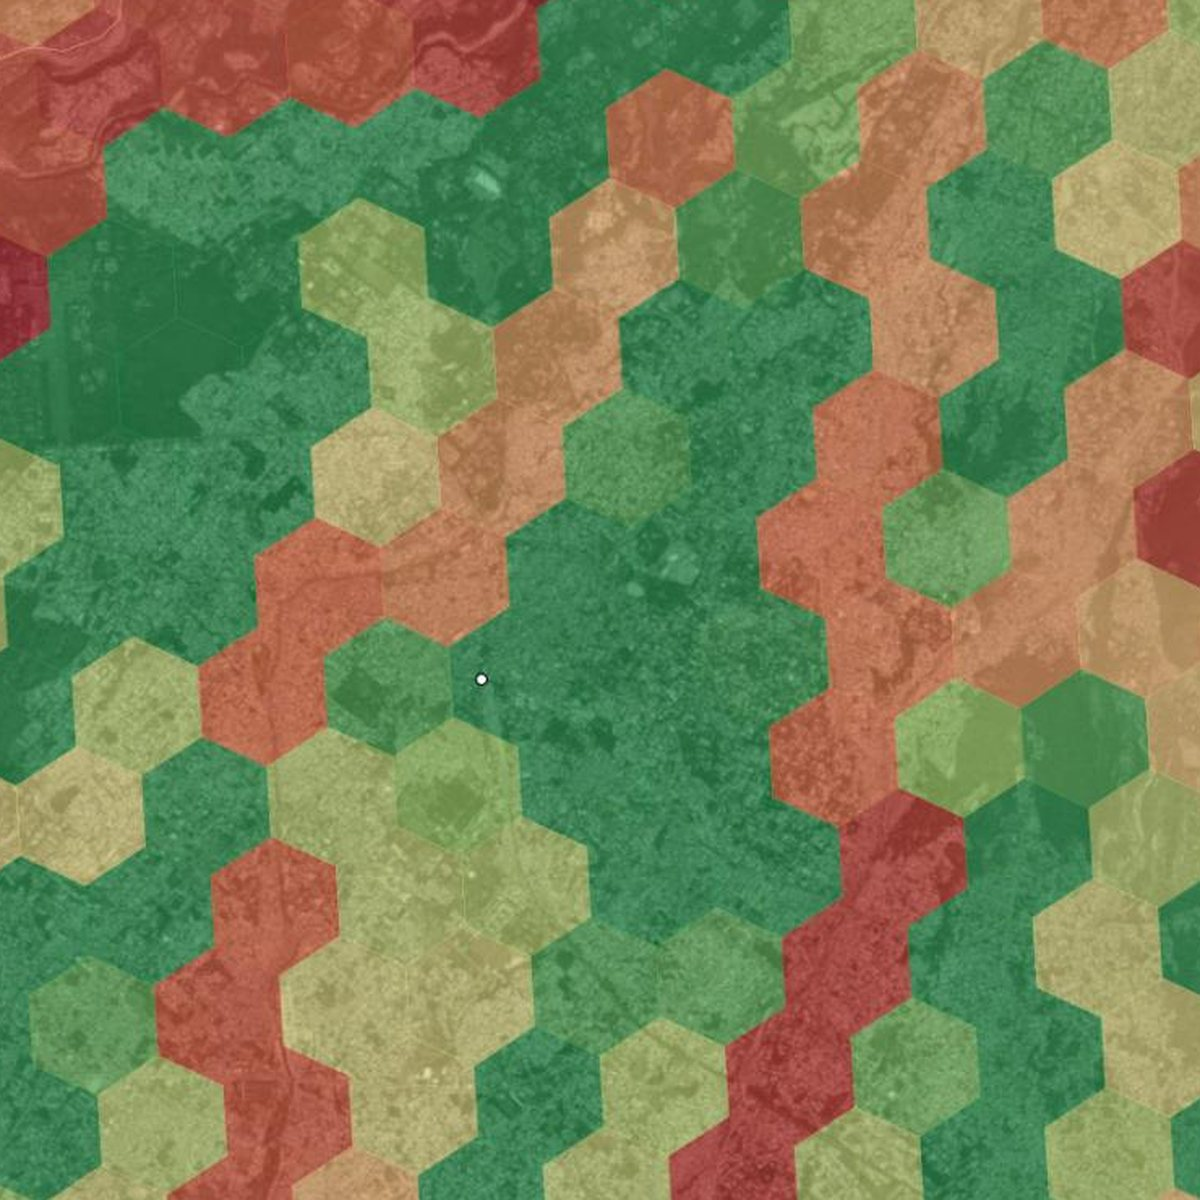
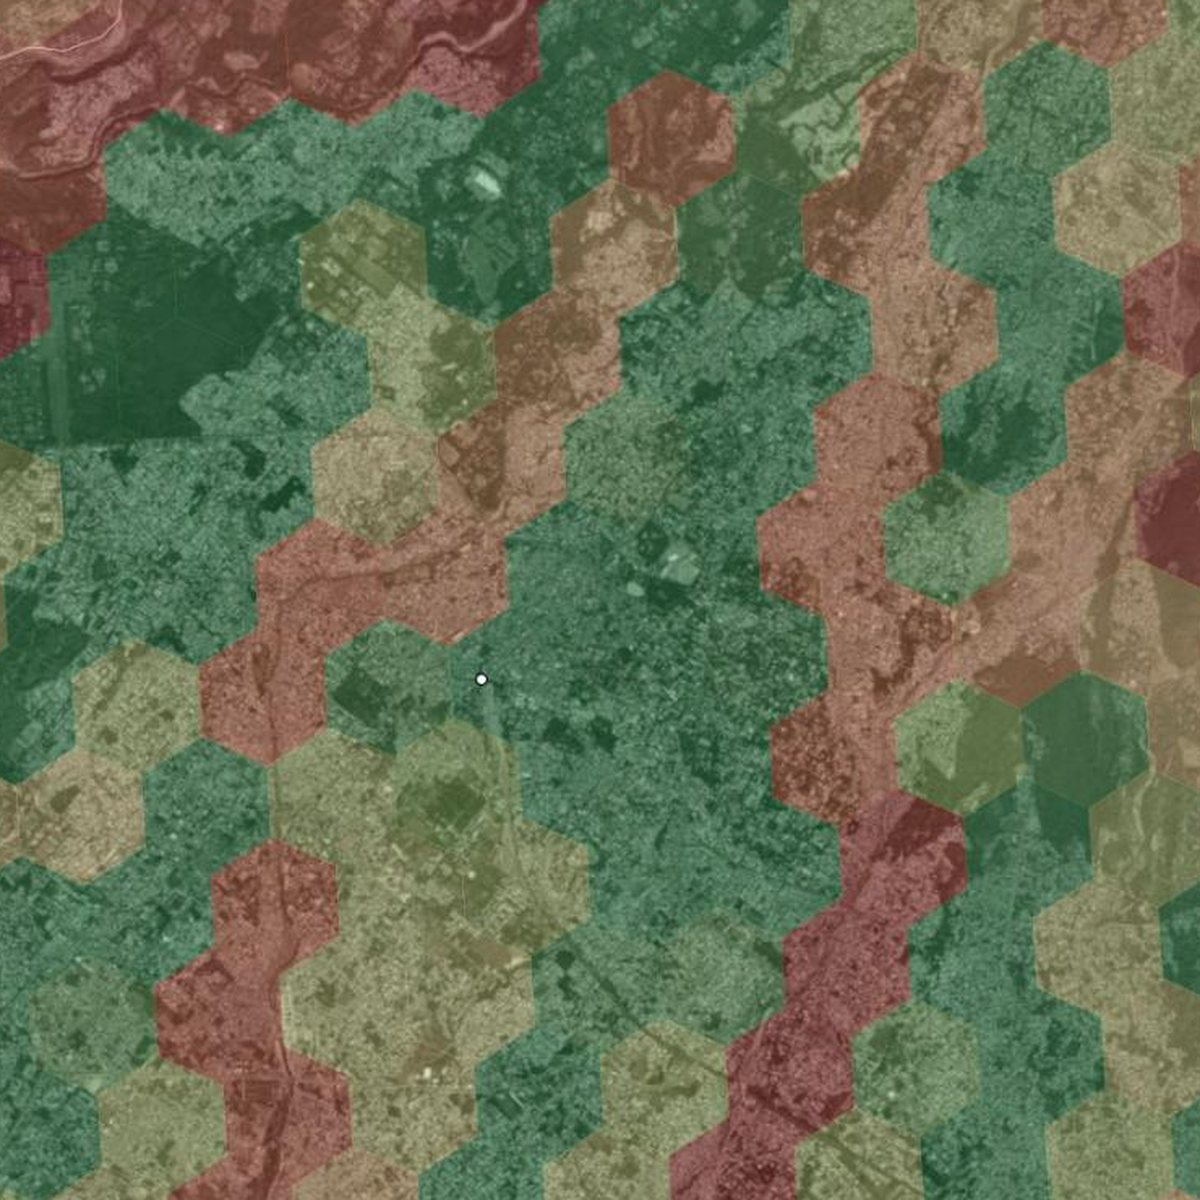
Model stats: 0.8 as the big number, AUC moved to the sub text, body font; ground images re-taken with a lighter layer

diff --git a/index.html b/index.html
@@ -171,7 +171,7 @@ section { padding-block: clamp(56px, 8vw, 104px); }
 .evidence { display: grid; grid-template-columns: 1fr 1.1fr; gap: clamp(28px, 5vw, 72px); align-items: start; }
 .evidence > * { min-width: 0; }
 .big { font: 700 clamp(3.2rem, 8vw, 5.6rem)/1 var(--display); letter-spacing: -0.04em; color: var(--ink); }
-.big small { font: 500 0.9rem/1.4 var(--mono); letter-spacing: 0; color: var(--muted); display: block; margin-top: 10px; }
+.big small { font: 500 1.05rem/1.4 var(--body); letter-spacing: 0; color: var(--muted); display: block; margin-top: 10px; }
 .chart { background: var(--surface); border: 1px solid var(--line); border-radius: 8px; padding: 26px; }
 .chart h3 { margin-bottom: 4px; }
 .chart .sub { color: var(--muted); font-size: 0.92rem; margin-bottom: 22px; }
@@ -343,12 +343,12 @@ footer p { max-width: 62em; }
 </section></div>
 
 <section id="evidence" class="wrap">
-  <div class="head"><p class="eyebrow">Model stats</p></div>
+  <div class="head"><p class="eyebrow">Tested on documented events</p><h2>Model stats</h2></div>
   <div class="evidence">
     <div>
       <div class="big">64%<small>of past landslides and floods happened in the top-ranked fifth of land.<br>Only 2% happened in the lowest-ranked fifth.</small></div>
-      <div class="big" style="margin-top:34px;font-size:clamp(2.4rem,6vw,3.8rem)">AUC 0.80<small>on a blind sample of documented landslides and floods*</small></div>
-      <div class="big" style="margin-top:30px;font-size:clamp(1.7rem,4vw,2.4rem)">+0.25<small>Livability&ndash;price link: Livability scores track what hill land sells for*</small></div>
+      <div class="big" style="margin-top:34px">0.8<small>AUC on a blind sample of documented landslides and floods*</small></div>
+      <div class="big" style="margin-top:34px">+0.25<small>Livability&ndash;price link: Livability scores track what hill land sells for*</small></div>
     </div>
     <div class="chart" role="img" aria-label="Share of past landslides and floods by risk rank of the land: lowest fifth 2 percent, then 6, 9 and 20 percent, highest fifth 64 percent.">
       <h3>Where past landslides and floods happened</h3>
